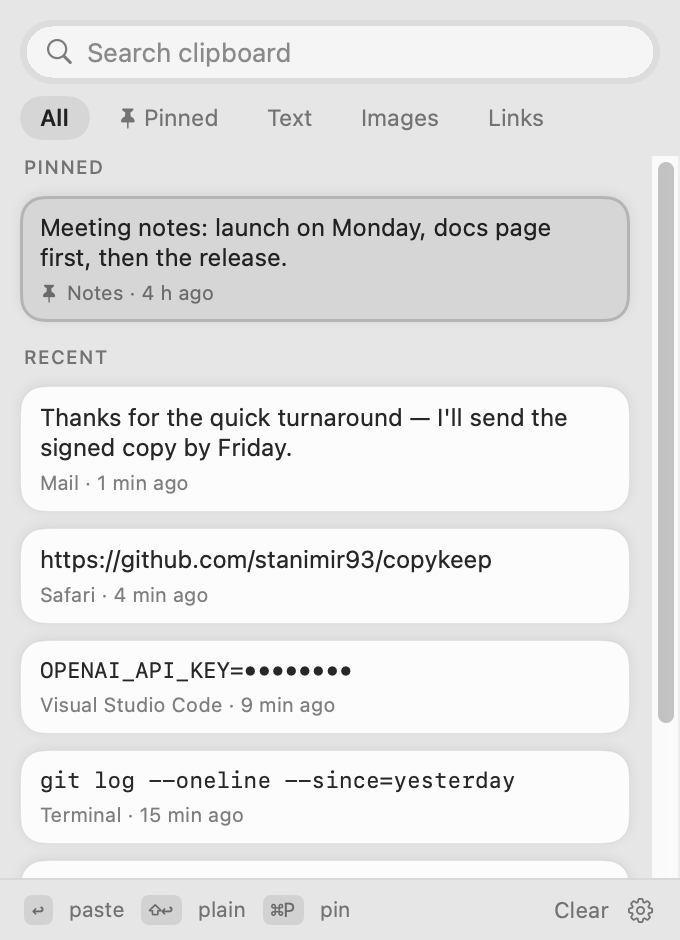
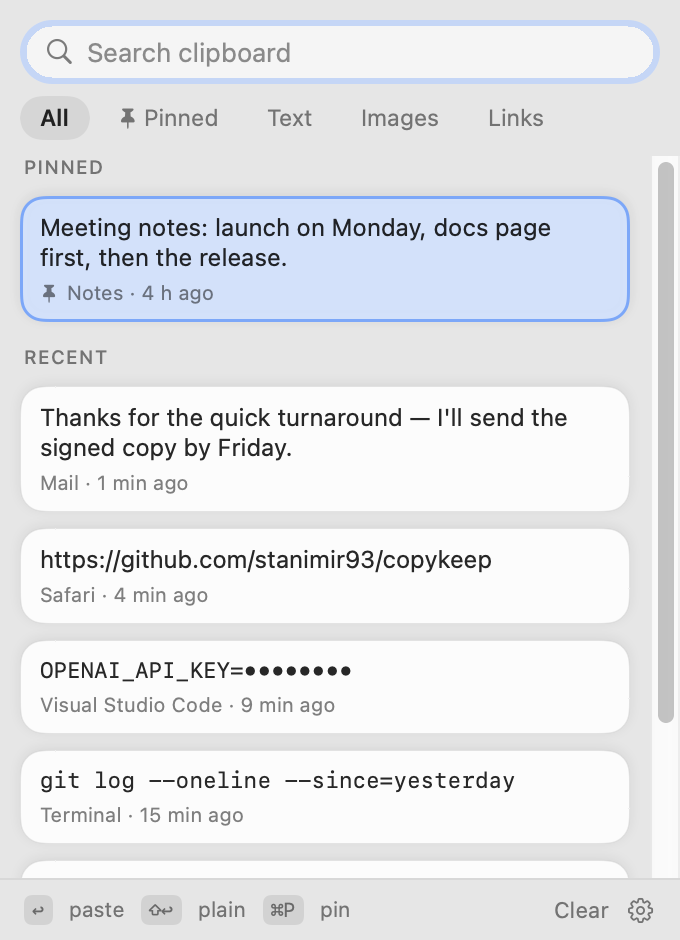
Light blue selection and search focus band
The selected clip gets a light wash of the accent colour with an accent
edge instead of grey, and the search field's focus band is light blue
again, softer than the original.

Changed region(s): [[0.0309, 0.1851, 0.9265, 0.3702], [0.0309, 0.0309, 0.9882, 0.0926], [0.0618, 0.0, 0.9574, 0.0309]]

diff --git a/Sources/Copykeep/PanelView.swift b/Sources/Copykeep/PanelView.swift
@@ -205,7 +205,12 @@ struct ClipRow: View {
             }
         }
         .frame(maxWidth: .infinity, alignment: .leading)
-        .background(selected ? selectedFill : cardFill)
+        .background {
+            ZStack {
+                cardFill
+                if selected { selectedTint }
+            }
+        }
         .clipShape(shape)
         // Like System Settings' grouped boxes: a hairline edge and a soft shadow, so each clip
         // stands apart from the glass and from the next one.
@@ -230,10 +235,10 @@ struct ClipRow: View {
 
     /// Near-solid white on the grey-tinted glass in light mode, a clear lift in dark mode.
     private var cardFill: Color { scheme == .light ? Color.white.opacity(0.92) : Color.white.opacity(0.1) }
-    /// The selection is grey, as in Spotlight's results, not the accent colour.
-    private var selectedFill: Color { scheme == .light ? Color(white: 0.84) : Color.white.opacity(0.22) }
+    /// The selection is a light wash of the accent colour, not the full-strength fill.
+    private var selectedTint: Color { Color.accentColor.opacity(scheme == .light ? 0.2 : 0.35) }
     private var edge: Color {
-        if selected { return scheme == .light ? Color.black.opacity(0.16) : Color.white.opacity(0.28) }
+        if selected { return Color.accentColor.opacity(scheme == .light ? 0.55 : 0.7) }
         return scheme == .light ? Color.black.opacity(0.1) : Color.white.opacity(0.1)
     }
 
@@ -362,8 +367,8 @@ struct SearchField: NSViewRepresentable {
         let light = box.effectiveAppearance.bestMatch(from: [.aqua, .darkAqua]) == .aqua
         box.effectiveAppearance.performAsCurrentDrawingAppearance {
             box.layer?.backgroundColor = (light ? NSColor.white.withAlphaComponent(0.6) : NSColor.labelColor.withAlphaComponent(0.06)).cgColor
-            // A soft grey focus band, like the search fields in macOS 26.
-            box.layer?.borderColor = NSColor.labelColor.withAlphaComponent(light ? 0.1 : 0.16).cgColor
+            // A soft light-blue focus band, like the search fields in macOS 26.
+            box.layer?.borderColor = NSColor.controlAccentColor.withAlphaComponent(light ? 0.25 : 0.35).cgColor
         }
     }
 
